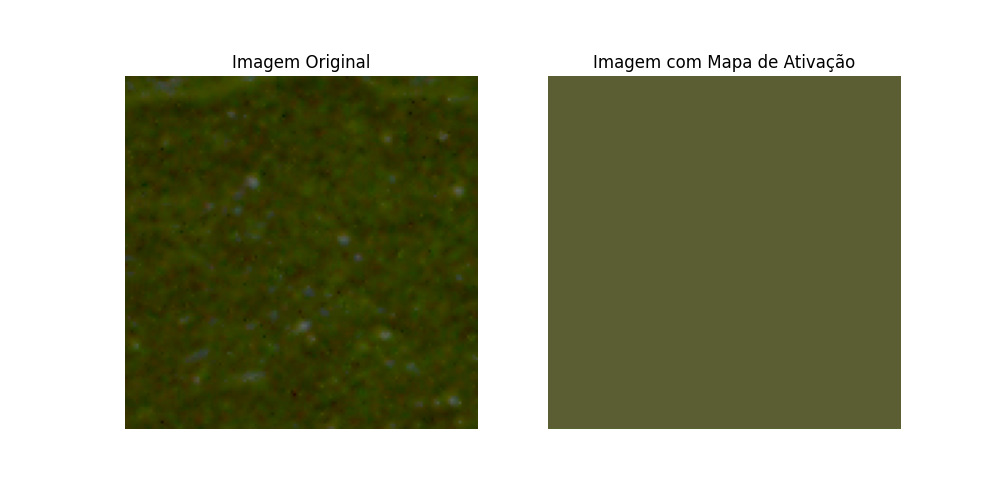
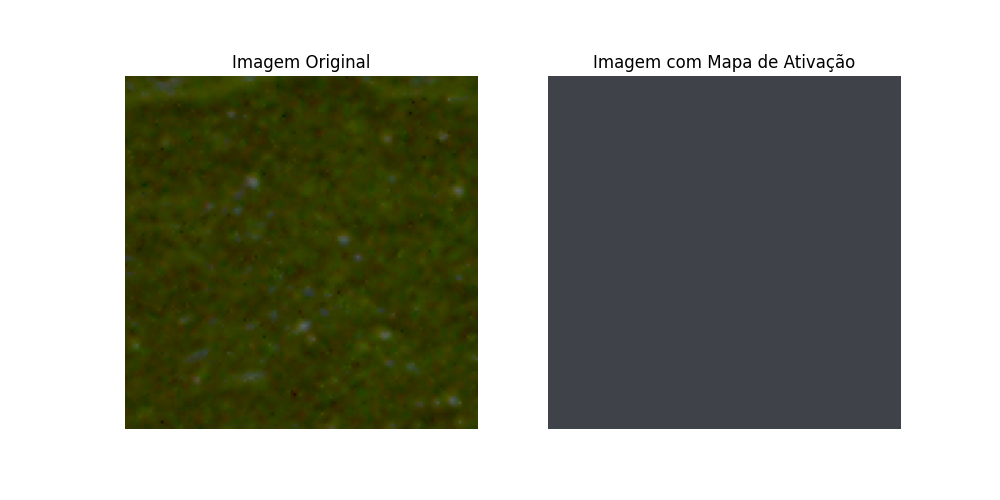
Changing Activation_map denominator

Changed region(s): [[0.527, 0.15, 0.899, 0.87]]

diff --git a/ResNet50.py b/ResNet50.py
@@ -94,7 +94,11 @@ for i in range(len(images_tensor)):
         activation_map = activation.squeeze(0).mean(dim=0).cpu().numpy()  # Calcula a média dos mapas de ativação
 
         # Normaliza o mapa de ativação para [0, 1] para visualização
-        activation_map = (activation_map - activation_map.min()) / (activation_map.max() - activation_map.min())
+        denominator = activation_map.max() - activation_map.min()
+        if denominator == 0:
+            activation_map = np.zeros_like(activation_map)  # Ou use um valor constante, como 0.5
+        else:
+            activation_map = (activation_map - activation_map.min()) / denominator
 
         # Exibir a imagem original e o mapa de ativação sobreposto
         fig, axes = plt.subplots(1, 2, figsize=(10, 5))
